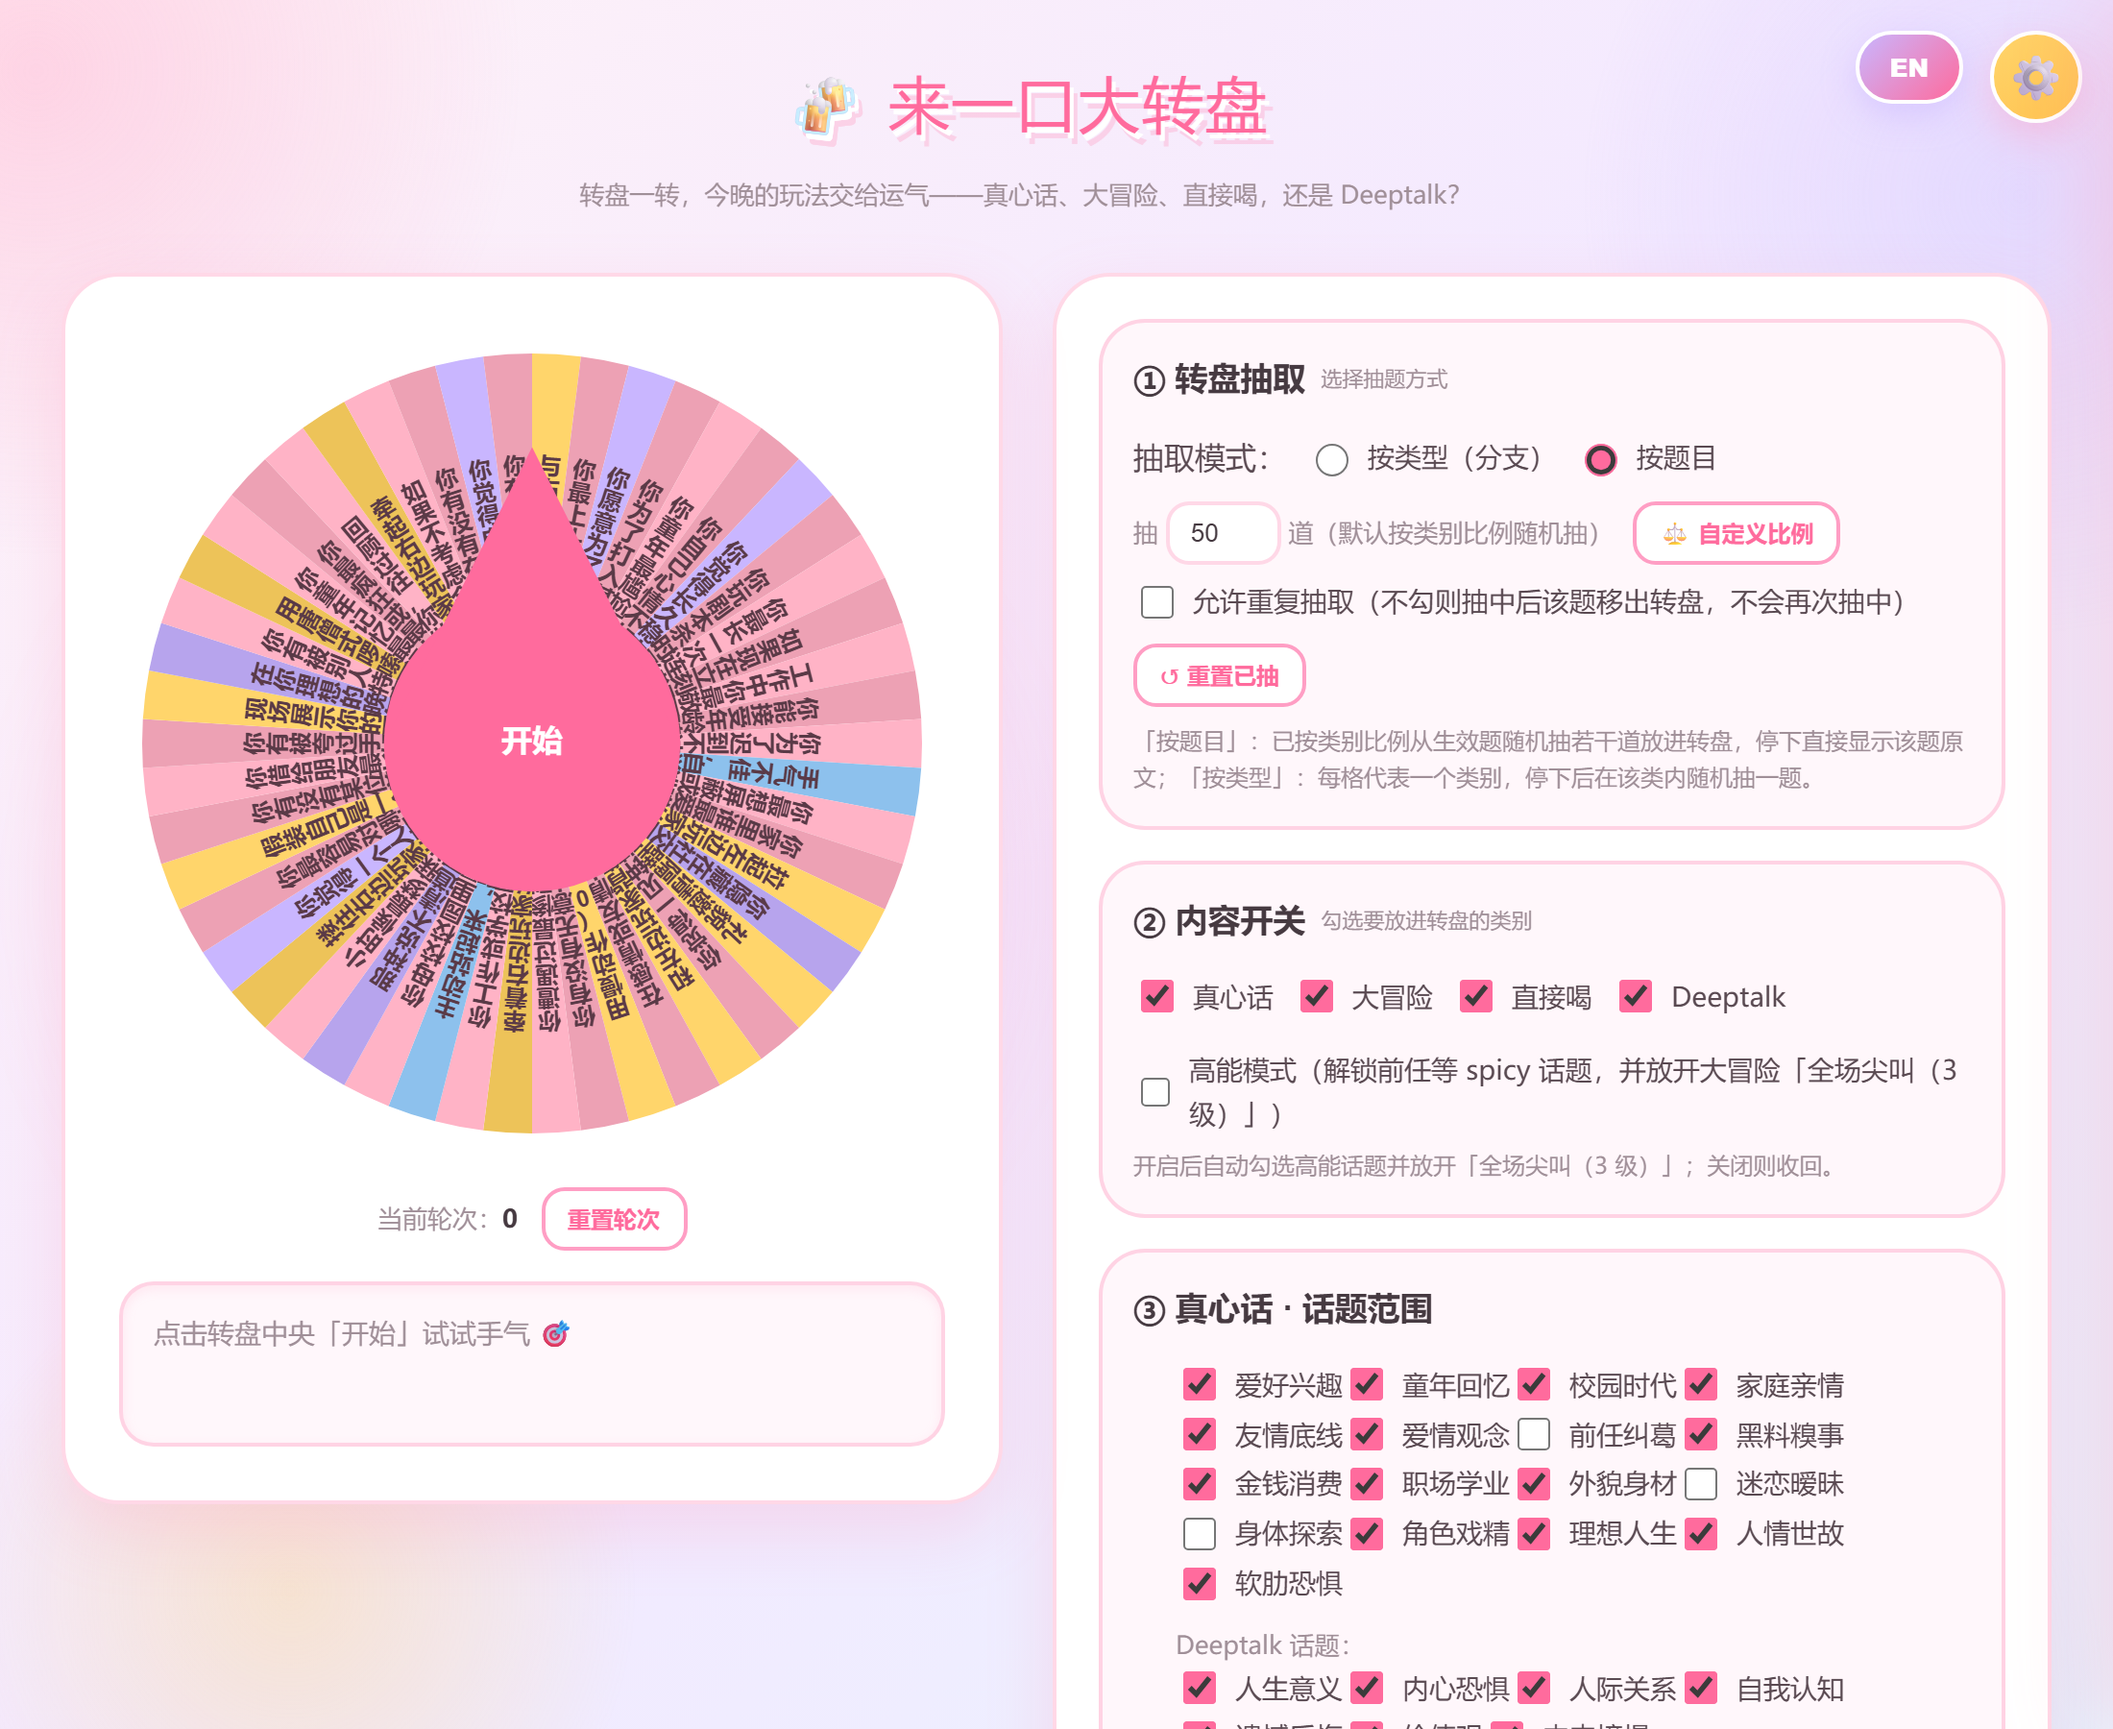
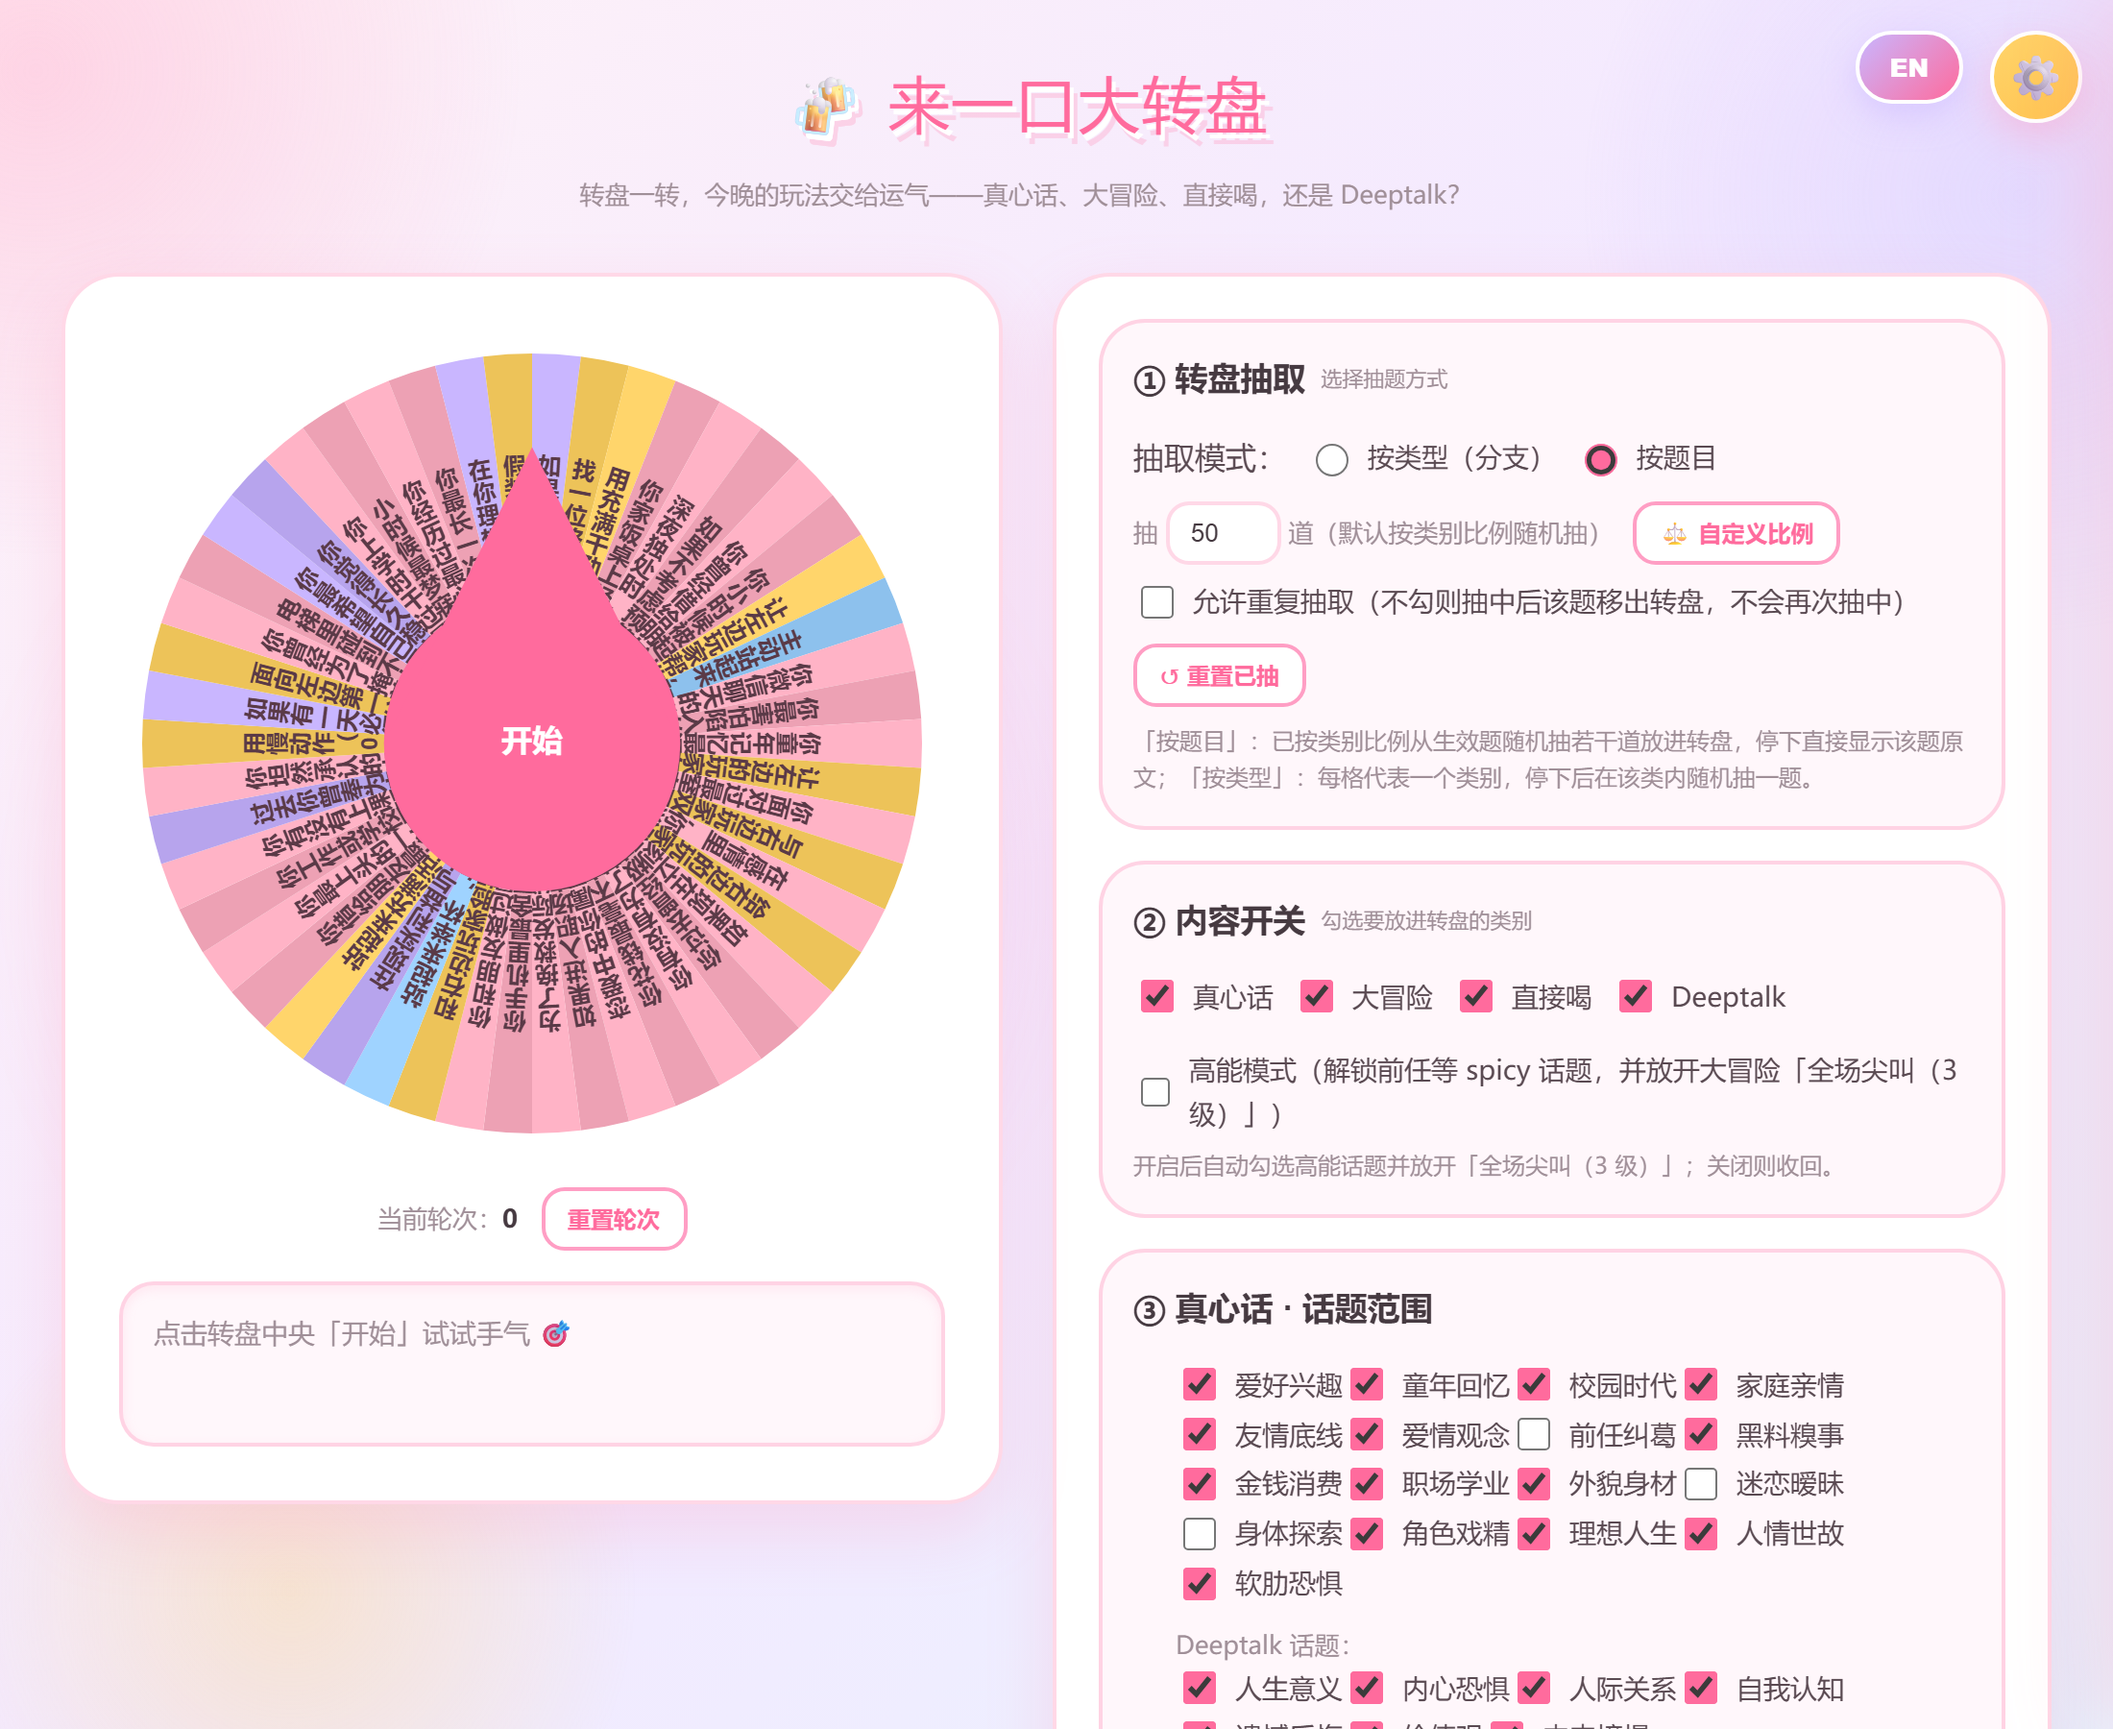
revert: 英文转盘回到最初的简单渲染（lucky-canvas 原生文字）
- 撤回 wrapEnglishOverlay 自画 overlay、_label 注入、HTML 标签层、rotateDeg 等所有花活

- buildPrizes / wheelLabel / renderWheel 全部回到最原始版本：中英文都走 lucky-canvas 默认字体

- README 英文截图改为 10 片场景（shot.js 在切英文后把抽题数设为 10）

- 中文版完全没动

Changed region(s): [[0.0618, 0.1867, 0.4327, 0.6533]]

diff --git a/app.html b/app.html
@@ -825,29 +825,26 @@
   function truncate(s, n) { return s.length > n ? s.slice(0, n - 1) + '…' : s; }
 
   // 中文版：lucky-canvas 自带文字沿弧线排，中文竖排可读，保持原样。
-  // 英文版：设 rotateDeg:90 让文字沿半径方向排布（从外圈往圆心），完整句子可见，跟切片一起转。
+  // 英文版：与中文一致，显示题目/分支标签原文（截断），恢复最初版本行为。
   function wheelLabel(q, b) {
-    if (q) return truncate(qText(q), lang === 'en' ? 24 : 12);
-    return truncate(b.label, lang === 'en' ? 24 : 14);
+    if (q) return truncate(qText(q), 12);
+    return truncate(b.label, 14);
   }
 
   function buildPrizes() {
     const empty = [{ background: '#6b7280', fonts: [{ text: t('请开启内容'), top: '40%', fontColor: '#fff', fontSize: '13px', fontWeight: 'bold' }] }];
     const zhFont = { top: '40%', fontColor: '#5a3a47', fontSize: '12px', fontWeight: 'bold' };
-    // 英文：rotateDeg:90 让文字沿半径方向从外圈往圆心排布（默认 0 是沿弧线切线方向，会与相邻切片文字重叠）
-    const enFont = { top: '38%', fontColor: '#5a3a47', fontSize: '11px', fontWeight: 'bold', wordWrap: false, lineClamp: 1, rotateDeg: 90 };
-    const baseFont = (lang === 'en') ? enFont : zhFont;
     if (wheelMode === 'question') {
       if (qSegs.length === 0) return empty;
       return qSegs.map((q, i) => ({
         background: i % 2 === 0 ? CAT_META[q.cat].color : shade(CAT_META[q.cat].color, -18),
-        fonts: [{ text: wheelLabel(q, null), ...baseFont }]
+        fonts: [{ text: wheelLabel(q, null), ...zhFont }]
       }));
     }
     if (branches.length === 0) return empty;
     return branches.map((b, i) => ({
       background: i % 2 === 0 ? CAT_META[b.cat].color : shade(CAT_META[b.cat].color, -18),
-      fonts: [{ text: wheelLabel(null, b), ...baseFont }]
+      fonts: [{ text: wheelLabel(null, b), ...zhFont }]
     }));
   }
 

diff --git a/app.src.html b/app.src.html
@@ -821,29 +821,26 @@
   function truncate(s, n) { return s.length > n ? s.slice(0, n - 1) + '…' : s; }
 
   // 中文版：lucky-canvas 自带文字沿弧线排，中文竖排可读，保持原样。
-  // 英文版：设 rotateDeg:90 让文字沿半径方向排布（从外圈往圆心），完整句子可见，跟切片一起转。
+  // 英文版：与中文一致，显示题目/分支标签原文（截断），恢复最初版本行为。
   function wheelLabel(q, b) {
-    if (q) return truncate(qText(q), lang === 'en' ? 24 : 12);
-    return truncate(b.label, lang === 'en' ? 24 : 14);
+    if (q) return truncate(qText(q), 12);
+    return truncate(b.label, 14);
   }
 
   function buildPrizes() {
     const empty = [{ background: '#6b7280', fonts: [{ text: t('请开启内容'), top: '40%', fontColor: '#fff', fontSize: '13px', fontWeight: 'bold' }] }];
     const zhFont = { top: '40%', fontColor: '#5a3a47', fontSize: '12px', fontWeight: 'bold' };
-    // 英文：rotateDeg:90 让文字沿半径方向从外圈往圆心排布（默认 0 是沿弧线切线方向，会与相邻切片文字重叠）
-    const enFont = { top: '38%', fontColor: '#5a3a47', fontSize: '11px', fontWeight: 'bold', wordWrap: false, lineClamp: 1, rotateDeg: 90 };
-    const baseFont = (lang === 'en') ? enFont : zhFont;
     if (wheelMode === 'question') {
       if (qSegs.length === 0) return empty;
       return qSegs.map((q, i) => ({
         background: i % 2 === 0 ? CAT_META[q.cat].color : shade(CAT_META[q.cat].color, -18),
-        fonts: [{ text: wheelLabel(q, null), ...baseFont }]
+        fonts: [{ text: wheelLabel(q, null), ...zhFont }]
       }));
     }
     if (branches.length === 0) return empty;
     return branches.map((b, i) => ({
       background: i % 2 === 0 ? CAT_META[b.cat].color : shade(CAT_META[b.cat].color, -18),
-      fonts: [{ text: wheelLabel(null, b), ...baseFont }]
+      fonts: [{ text: wheelLabel(null, b), ...zhFont }]
     }));
   }
 

diff --git a/index.html b/index.html
@@ -825,29 +825,26 @@
   function truncate(s, n) { return s.length > n ? s.slice(0, n - 1) + '…' : s; }
 
   // 中文版：lucky-canvas 自带文字沿弧线排，中文竖排可读，保持原样。
-  // 英文版：设 rotateDeg:90 让文字沿半径方向排布（从外圈往圆心），完整句子可见，跟切片一起转。
+  // 英文版：与中文一致，显示题目/分支标签原文（截断），恢复最初版本行为。
   function wheelLabel(q, b) {
-    if (q) return truncate(qText(q), lang === 'en' ? 24 : 12);
-    return truncate(b.label, lang === 'en' ? 24 : 14);
+    if (q) return truncate(qText(q), 12);
+    return truncate(b.label, 14);
   }
 
   function buildPrizes() {
     const empty = [{ background: '#6b7280', fonts: [{ text: t('请开启内容'), top: '40%', fontColor: '#fff', fontSize: '13px', fontWeight: 'bold' }] }];
     const zhFont = { top: '40%', fontColor: '#5a3a47', fontSize: '12px', fontWeight: 'bold' };
-    // 英文：rotateDeg:90 让文字沿半径方向从外圈往圆心排布（默认 0 是沿弧线切线方向，会与相邻切片文字重叠）
-    const enFont = { top: '38%', fontColor: '#5a3a47', fontSize: '11px', fontWeight: 'bold', wordWrap: false, lineClamp: 1, rotateDeg: 90 };
-    const baseFont = (lang === 'en') ? enFont : zhFont;
     if (wheelMode === 'question') {
       if (qSegs.length === 0) return empty;
       return qSegs.map((q, i) => ({
         background: i % 2 === 0 ? CAT_META[q.cat].color : shade(CAT_META[q.cat].color, -18),
-        fonts: [{ text: wheelLabel(q, null), ...baseFont }]
+        fonts: [{ text: wheelLabel(q, null), ...zhFont }]
       }));
     }
     if (branches.length === 0) return empty;
     return branches.map((b, i) => ({
       background: i % 2 === 0 ? CAT_META[b.cat].color : shade(CAT_META[b.cat].color, -18),
-      fonts: [{ text: wheelLabel(null, b), ...baseFont }]
+      fonts: [{ text: wheelLabel(null, b), ...zhFont }]
     }));
   }
 
